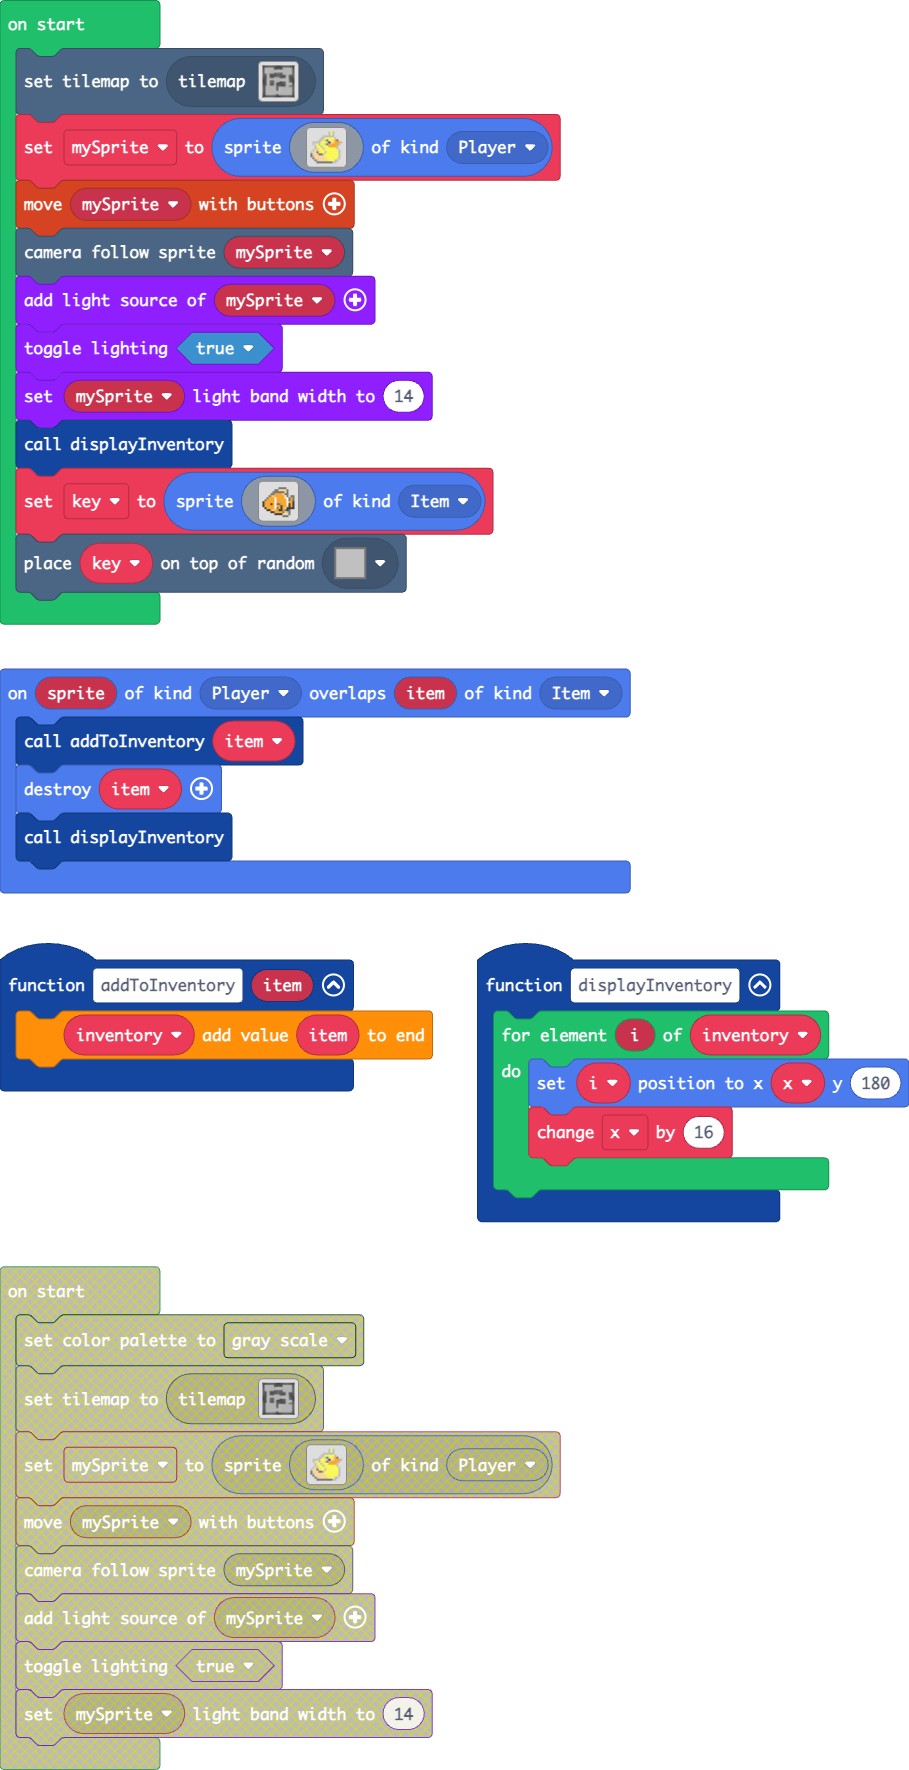
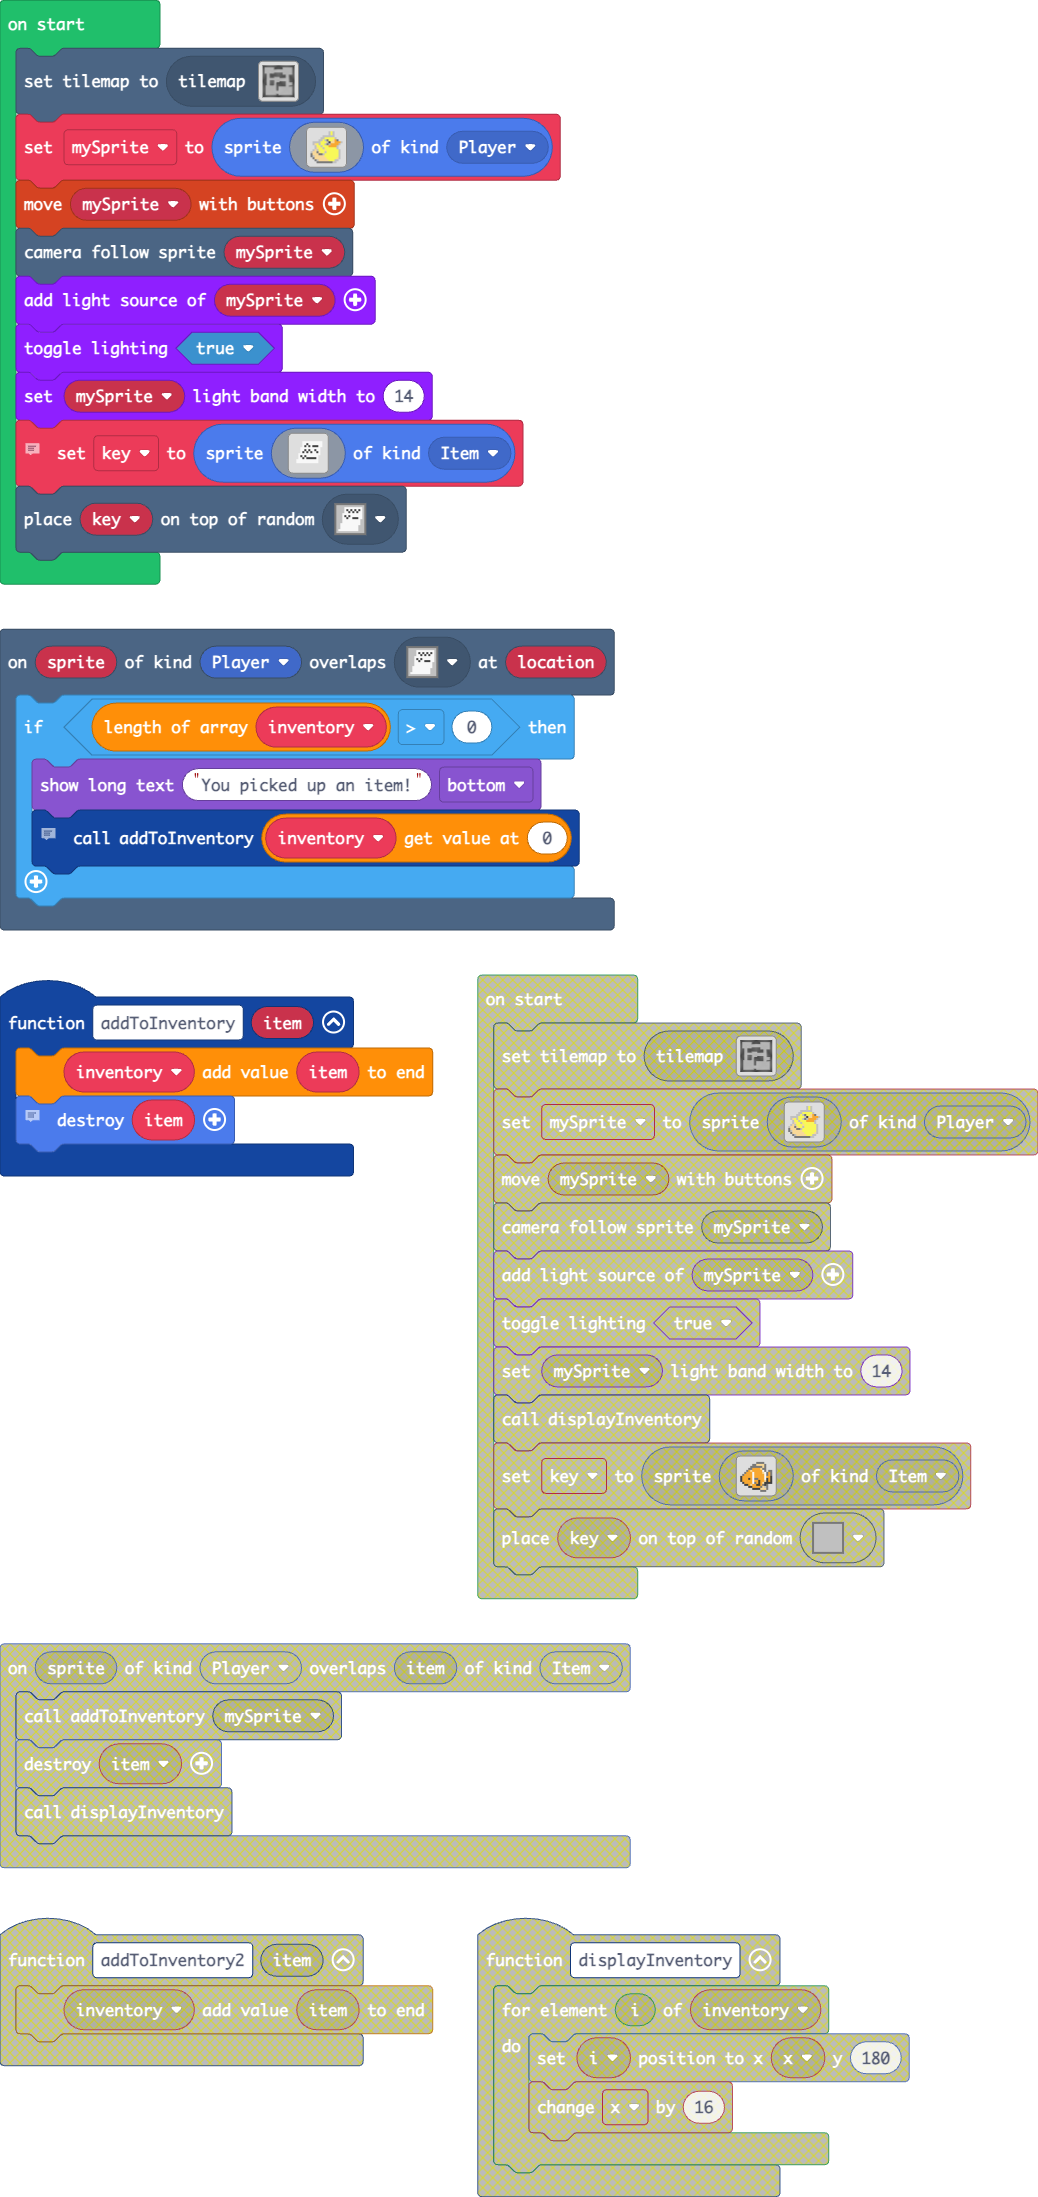
Update main.blocks, main.ts, tilemap.g.jres, tilemap.g.ts, images.g.jres, images.g.ts

diff --git a/tilemap.g.ts b/tilemap.g.ts
@@ -8,6 +8,8 @@ namespace myTiles {
     export const tile5 = image.ofBuffer(hex``);
     //% fixedInstance jres blockIdentity=images._tile
     export const tile8 = image.ofBuffer(hex``);
+    //% fixedInstance jres blockIdentity=images._tile
+    export const tile1 = image.ofBuffer(hex``);
 
     helpers._registerFactory("tilemap", function(name: string) {
         switch(helpers.stringTrim(name)) {
@@ -30,8 +32,27 @@ namespace myTiles {
 . . . . . . . . . . . . . . . . 
 . . . . . . . . . . . . . . . . 
 `, [myTiles.transparency16], TileScale.Sixteen);
+            case "level3":
+            case "level3":return tiles.createTilemap(hex`1000100000000000000000000000000000000000000000000000000000000000000000000000000000000000000000000000000000000000000000000000000000000000000000000000000000000000000000000000000000000000000000000000000000000000000000000000000000000000000000000000000000000000000000000000000000000000000000000000000000000000000000000000000000000000000000000000000000000000000000000000000000000000000000000000000000000000000000000000000000000000000000000000000000000000000000000000000000000000000000000000000000000000000000000000000000000000`, img`
+. . . . . . . . . . . . . . . . 
+. . . . . . . . . . . . . . . . 
+. . . . . . . . . . . . . . . . 
+. . . . . . . . . . . . . . . . 
+. . . . . . . . . . . . . . . . 
+. . . . . . . . . . . . . . . . 
+. . . . . . . . . . . . . . . . 
+. . . . . . . . . . . . . . . . 
+. . . . . . . . . . . . . . . . 
+. . . . . . . . . . . . . . . . 
+. . . . . . . . . . . . . . . . 
+. . . . . . . . . . . . . . . . 
+. . . . . . . . . . . . . . . . 
+. . . . . . . . . . . . . . . . 
+. . . . . . . . . . . . . . . . 
+. . . . . . . . . . . . . . . . 
+`, [myTiles.transparency16], TileScale.Sixteen);
             case "lemap":
[2 lines of base64/hex data omitted]
 ..............................
 .22222222222......22222222222.
 .2.........2......2.........2.
@@ -62,7 +83,7 @@ namespace myTiles {
 ..2..........22.............2.
 ...2222222222..22222222222222.
 ..............................
-`, [myTiles.transparency16,myTiles.tile5,myTiles.tile8], TileScale.Sixteen);
+`, [myTiles.transparency16,myTiles.tile5,myTiles.tile8,myTiles.tile1], TileScale.Sixteen);
         }
         return null;
     })
@@ -76,6 +97,8 @@ namespace myTiles {
             case "tile5":return tile5;
             case "Tile6":
             case "tile8":return tile8;
+            case "Tile0":
+            case "tile1":return tile1;
         }
         return null;
     })

diff --git a/main.ts b/main.ts
@@ -1,21 +1,19 @@
 namespace SpriteKind {
     export const Item = SpriteKind.create()
 }
+scene.onOverlapTile(SpriteKind.Player, assets.tile`Tile0`, function (sprite, location) {
+    if (inventory.length > 0) {
+        game.showLongText("You picked up an item!", DialogLayout.Bottom)
+        // Perform any additional actions when the player overlaps with the tile
+        // For example, you might want to add the item to the inventory
+        addToInventory(inventory[0])
+    }
+})
 function addToInventory (item: Sprite) {
     inventory.push(item)
-}
-function displayInventory () {
-    for (let i of inventory) {
-        i.setPosition(x, 180)
-        x += 16
-    }
-}
-sprites.onOverlap(SpriteKind.Player, SpriteKind.Item, function (sprite, item) {
-    addToInventory(item)
+    // Assuming you want to remove the item from the scene when added to the inventory
     item.destroy()
-    displayInventory()
-})
-let x = 0
+}
 let inventory: Sprite[] = []
 tiles.setCurrentTilemap(tilemap`lemap`)
 let mySprite = sprites.create(assets.image`duck`, SpriteKind.Player)
@@ -24,6 +22,6 @@ scene.cameraFollowSprite(mySprite)
 multilights.addLightSource(mySprite)
 multilights.toggleLighting(true)
 multilights.bandWidthOf(mySprite, 14)
-displayInventory()
-let key = sprites.create(assets.image`key`, SpriteKind.Item)
-tiles.placeOnRandomTile(key, assets.tile`Tile3`)
+// Example: Creating a key item
+let key = sprites.create(assets.image`myImage`, SpriteKind.Item)
+tiles.placeOnRandomTile(key, assets.tile`Tile0`)

diff --git a/images.g.ts b/images.g.ts
@@ -231,6 +231,25 @@ f 4 4 4 4 4 1 4 4 f 4 4 d f 4 f
 . . . . . . f f f f d d d c . . 
 . . . . . . . . . . c c c . . . 
 `;
+            case "image5":
+            case "myImage":return img`
+. . . . . . . . . . . . . . . . 
+. . . . . . . . . . . . . . . . 
+. . . . . 1 1 1 1 1 1 1 1 1 1 . 
+. . . . . 1 1 f 1 1 1 1 1 1 1 . 
+. . . . . 1 f 1 f 1 f f f 1 1 . 
+. . . . 1 1 1 1 1 1 1 1 1 1 . . 
+. . . . 1 1 f 1 f 1 1 f 1 1 . . 
+. . . . 1 f 1 f 1 f 1 1 f 1 . . 
+. . . 1 1 1 1 1 1 1 1 1 1 1 . . 
+. . . 1 f 1 f 1 1 1 1 1 1 . . . 
+. . . 1 1 f 1 f f f f f 1 . . . 
+. . 1 1 1 1 1 1 1 1 1 1 1 . . . 
+. . 1 1 1 1 1 1 1 1 1 1 1 . . . 
+. . . . . . . . . . . . . . . . 
+. . . . . . . . . . . . . . . . 
+. . . . . . . . . . . . . . . . 
+`;
         }
         return null;
     })
